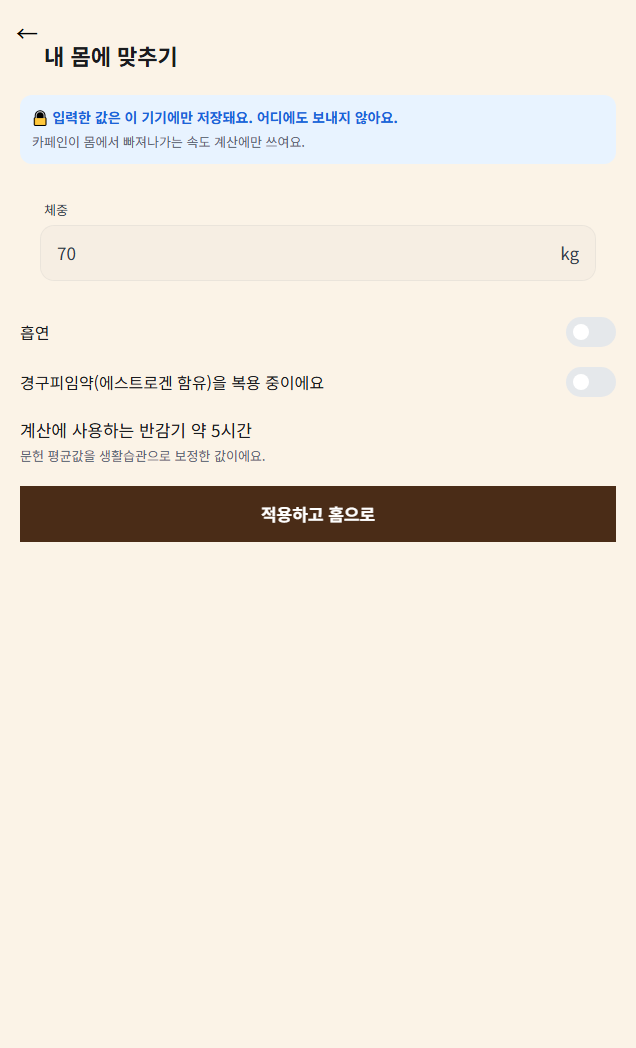
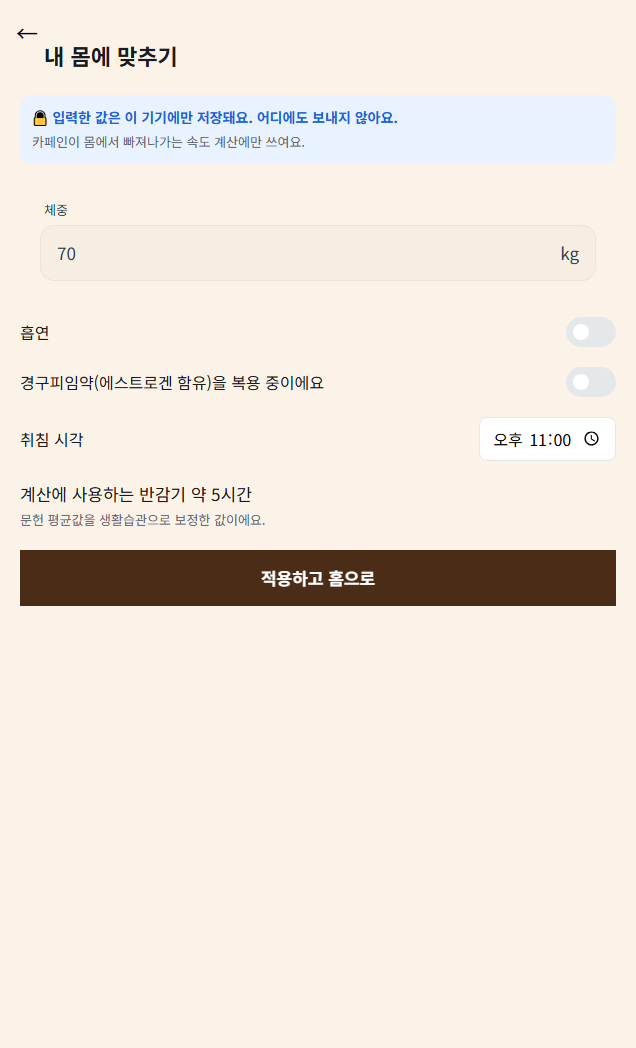
취침 시각 조정 기능 되살림 (11차/12차 개정)
- lib/bedtime.ts: bedtimeMsOf(now, bedtime) 일반화 + normalizeBedtime
  (normalizeWeightKg와 같은 자리 — 함수 진입부에서 정규화)
- storage.ts: cl.v1.bedtime 키(기본 "23:00") 추가
- PersonalizeScreen: 4번째 입력으로 네이티브 <input type="time" min=21:00
  max=02:00 step=1800> 추가(§3 12차 재판정 — TDS에 시간 입력 컴포넌트가
  없어 네이티브로 감, 커스텀 스테퍼 아님). bedtime_adjusted 이벤트 추가
- HomeScreen/CurveChart: "23:00" 리터럴 3곳(취침선 라벨·화살표·취침 예상
  텍스트)을 전부 bedtime prop으로 교체 — 취침을 바꿔도 화면에 옛 값이
  남던 함정 제거
- GuideScreen: M-6 "취침은 23:00 기준" 문구 삭제(더 이상 고정이 아님),
  개인정보 3분류에 "취침 시각" 재등재, "잔 그림"→"링거 그림" 오타 수정
- check-core.ts #13: bedtimeMsOf(now, bedtime) 시그니처로 일반화,
  15:00/01:30→내일 01:30 케이스 추가, 5분 간격 288개 성질 assert 추가
- screenshots.mjs: devtools 배너 목업 박스([data-ait-slot-id])도 숨김
  목록에 추가(광고 ID가 실제 값이 되며 새로 보이기 시작한 디버그 표시)
- docs/privacy.html: 3분류 ①에 "취침 시각" 반영(team-lead 사전 작업 포함)

Changed region(s): [[0.0299, 0.3969, 0.9858, 0.5802], [0.7767, 0.3969, 0.8962, 0.4275], [0.9261, 0.3969, 0.956, 0.4275]]

diff --git a/scripts/check-core.ts b/scripts/check-core.ts
@@ -177,26 +177,39 @@ assert.ok(
   `#12 시뮬레이션 취침값(${simBedtime})은 실제 취침값(${realBedtime}) × 2 초과여야 한다 — 섭취 시각이 달라 정확히 2배는 구조적으로 불가능하다("2배" 지름길이면 여기서 깨진다)`,
 );
 
-/* #13 — §12.8 신설(취침 경과 (b)안). 하루 어긋나면 화면값이 조용히 24배 틀린다. */
+/* #13 — §12.8 일반화(취침 시각 사용자 조정, 11차). 하루 어긋나면 화면값이 조용히 24배 틀린다.
+ * 규칙은 시각과 무관하게 하나다 — UI가 21:00~02:00으로 범위를 좁혀도 이 assert는 늘리지 않는다. */
 assert.equal(
-  bedtimeMsOf(Date.parse("2026-09-01T13:59:00Z")), // 22:59 KST
+  bedtimeMsOf(Date.parse("2026-09-01T13:59:00Z"), "23:00"), // 22:59 KST
   Date.parse("2026-09-01T14:00:00Z"), // 오늘(같은 날) 23:00 KST
-  "#13 22:59 → 오늘 23:00",
+  "#13 22:59/23:00 → 오늘",
 );
 assert.equal(
-  bedtimeMsOf(Date.parse("2026-09-01T14:00:00Z")), // 23:00 KST 정각
+  bedtimeMsOf(Date.parse("2026-09-01T14:00:00Z"), "23:00"), // 23:00 KST 정각
   Date.parse("2026-09-02T14:00:00Z"), // 내일 23:00 KST
-  "#13 23:00 → 내일 23:00",
+  "#13 23:00/23:00 → 내일",
 );
 assert.equal(
-  bedtimeMsOf(Date.parse("2026-09-01T14:20:00Z")), // 23:20 KST
-  Date.parse("2026-09-02T14:00:00Z"), // 내일 23:00 KST
-  "#13 23:20 → 내일 23:00",
-);
-assert.equal(
-  bedtimeMsOf(Date.parse("2026-09-01T15:30:00Z")), // 다음날 00:30 KST(자정 막 넘김)
+  bedtimeMsOf(Date.parse("2026-09-01T15:30:00Z"), "23:00"), // 다음날 00:30 KST(자정 막 넘김)
   Date.parse("2026-09-02T14:00:00Z"), // 그날(같은 KST 날짜) 23:00 — +1일을 또 더하면 안 된다
-  "#13 00:30 → 그날 23:00",
+  "#13 00:30/23:00 → 그날",
 );
+assert.equal(
+  bedtimeMsOf(Date.parse("2026-09-01T06:00:00Z"), "01:30"), // 15:00 KST, 취침 01:30(자정 넘는 값)
+  Date.parse("2026-09-01T16:30:00Z"), // 내일 01:30 KST — 특례 분기 없이 규칙 하나로 나와야 한다
+  "#13 15:00/01:30 → 내일 01:30",
+);
+
+// 성질: bedtime을 5분 간격 288개(00:00~23:55) 전부 넣어도 now < 결과 <= now + 24h 안에 있다.
+const PROPERTY_NOW = Date.parse("2026-09-01T00:00:00Z");
+for (let i = 0; i < 288; i += 1) {
+  const totalMin = i * 5;
+  const bt = `${String(Math.floor(totalMin / 60)).padStart(2, "0")}:${String(totalMin % 60).padStart(2, "0")}`;
+  const result = bedtimeMsOf(PROPERTY_NOW, bt);
+  assert.ok(
+    result > PROPERTY_NOW && result <= PROPERTY_NOW + 24 * HOUR_MS,
+    `#13 성질: bedtime=${bt} → now < 결과 <= now+24h 위반(${result})`,
+  );
+}
 
 console.log("check:core 전부 통과 (assert 1~13)");

diff --git a/src/features/personalize/PersonalizeScreen.tsx b/src/features/personalize/PersonalizeScreen.tsx
@@ -7,19 +7,24 @@ import { EVENT, track } from "../../lib/analytics";
 import { ScreenScroll } from "../../components/ScreenLayout";
 import { palette } from "../../theme";
 
-/** 내 몸에 맞추기(§3) — 체중/흡연/경구피임약 3개. 성별·나이 입력 없음. */
+/** 내 몸에 맞추기(§3) — 체중/흡연/경구피임약/취침 시각 4개. 성별·나이 입력 없음. */
 export function PersonalizeScreen({
   profile,
+  bedtime,
   onApply,
+  onApplyBedtime,
   onBack,
 }: {
   profile: Profile;
+  bedtime: string;
   onApply: (profile: Profile) => void;
+  onApplyBedtime: (bedtime: string) => void;
   onBack: () => void;
 }) {
   const [weightText, setWeightText] = useState(String(profile.weightKg));
   const [smoker, setSmoker] = useState(profile.smoker);
   const [oc, setOc] = useState(profile.oc);
+  const [bedtimeText, setBedtimeText] = useState(bedtime);
 
   const weightNum = Number(weightText);
   const weightValid = Number.isFinite(weightNum) && weightNum >= 30 && weightNum <= 200;
@@ -32,6 +37,10 @@ export function PersonalizeScreen({
     if (oc) fields.push("oc");
     track(EVENT.personalizeSaved, { fields: fields.join(",") });
     onApply({ weightKg: weightValid ? weightNum : profile.weightKg, smoker, oc });
+    if (bedtimeText !== bedtime) {
+      track(EVENT.bedtimeAdjusted, { to: bedtimeText });
+      onApplyBedtime(bedtimeText);
+    }
     onBack();
   };
 
@@ -72,6 +81,21 @@ export function PersonalizeScreen({
         <div style={{ display: "flex", justifyContent: "space-between", alignItems: "center", gap: 12 }}>
           <span style={{ fontSize: 16, color: palette.ink }}>경구피임약(에스트로겐 함유)을 복용 중이에요</span>
           <Switch checked={oc} onChange={(e) => setOc(e.target.checked)} />
+        </div>
+
+        <div style={{ display: "flex", justifyContent: "space-between", alignItems: "center" }}>
+          <span style={{ fontSize: 16, color: palette.ink }}>취침 시각</span>
+          {/* TDS에 시간 입력 컴포넌트가 없어 네이티브로 간다(§3 12차 재판정) — "HH:MM"을 그대로 주고받아
+              입력·저장·표시 어디에도 변환 코드가 없다. min>max는 자정 넘김 순환 범위로 해석된다. */}
+          <input
+            type="time"
+            min="21:00"
+            max="02:00"
+            step={1800}
+            value={bedtimeText}
+            onChange={(e) => setBedtimeText(e.target.value)}
+            style={{ fontSize: 16, padding: "8px 12px", border: `1px solid ${adaptive.grey200}`, borderRadius: 8 }}
+          />
         </div>
 
         <div>

diff --git a/src/App.tsx b/src/App.tsx
@@ -8,7 +8,17 @@ import { GuideScreen } from "./features/guide/GuideScreen";
 import { useNow } from "./hooks/useNow";
 import { EVENT, track, trackScreen } from "./lib/analytics";
 import type { Drink, Profile } from "./lib/caffeine";
-import { addDrink, loadDrinks, loadNotify, loadProfile, removeDrink, saveNotify, saveProfile } from "./lib/storage";
+import {
+  addDrink,
+  loadBedtime,
+  loadDrinks,
+  loadNotify,
+  loadProfile,
+  removeDrink,
+  saveBedtime,
+  saveNotify,
+  saveProfile,
+} from "./lib/storage";
 import type { NotifyState } from "./lib/storage";
 import { isInTossApp } from "./lib/tossEnv";
 
@@ -42,6 +52,7 @@ export default function App() {
   const [drinks, setDrinks] = useState<Drink[]>(() => loadDrinks(Date.now()));
   const [profile, setProfile] = useState<Profile>(() => loadProfile());
   const [notify, setNotify] = useState<NotifyState>(() => loadNotify());
+  const [bedtime, setBedtime] = useState<string>(() => loadBedtime());
   // 첫 렌더 전에 확정해야 HomeScreen의 useState(notificationEntry) 초기값이 이 값을 받는다 —
   // useEffect/useRef로 늦게 채우면 리렌더가 안 일어나 시뮬 토글이 영원히 안 켜진다(R-1).
   const [entry] = useState<string>(detectEntry);
@@ -77,6 +88,7 @@ export default function App() {
           drinks={drinks}
           profile={profile}
           notify={notify}
+          bedtime={bedtime}
           now={now}
           notificationEntry={entry === "notification"}
           onAddDrink={(drink) => setDrinks((prev) => addDrink(prev, drink))}
@@ -94,9 +106,14 @@ export default function App() {
       {current === "personalize" && (
         <PersonalizeScreen
           profile={profile}
+          bedtime={bedtime}
           onApply={(next) => {
             saveProfile(next);
             setProfile(next);
+          }}
+          onApplyBedtime={(next) => {
+            saveBedtime(next);
+            setBedtime(next);
           }}
           onBack={goHome}
         />

diff --git a/src/features/home/HomeScreen.tsx b/src/features/home/HomeScreen.tsx
@@ -41,6 +41,7 @@ export function HomeScreen({
   drinks,
   profile,
   notify,
+  bedtime,
   now,
   notificationEntry,
   onAddDrink,
@@ -51,6 +52,7 @@ export function HomeScreen({
   drinks: Drink[];
   profile: Profile;
   notify: NotifyState;
+  bedtime: string;
   now: number;
   notificationEntry: boolean;
   onAddDrink: (drink: Drink) => void;
@@ -70,7 +72,7 @@ export function HomeScreen({
 
   const currentConc = concentrationMgL(drinks, profile, now);
   const currentRemain = remainingMg(currentConc, profile.weightKg);
-  const bedtimeMs = bedtimeMsOf(now);
+  const bedtimeMs = bedtimeMsOf(now, bedtime);
   const bedtimeIsTomorrow = toKstDateKey(bedtimeMs) !== toKstDateKey(now);
   // curvePoints로 통일(check-core.ts #12가 실제·시뮬 양쪽을 이 경로로 검증한다 — N-8).
   const bedtimeConc = curvePoints(drinks, profile, bedtimeMs, bedtimeMs, 1)[0].mgL;
@@ -171,6 +173,7 @@ export function HomeScreen({
             simPoints={simPoints}
             nowMs={now}
             bedtimeMs={bedtimeMs}
+            bedtime={bedtime}
             drinkAtTimes={drinks.map((d) => d.at)}
             fromMs={from}
             toMs={to}
@@ -221,7 +224,7 @@ export function HomeScreen({
 
         <div style={{ margin: "16px 0" }}>
           <p style={{ margin: 0, fontSize: 15, color: palette.ink }}>
-            🌙 {bedtimeIsTomorrow ? "내일 " : ""}취침(23:00) 예상 {formatMgL(bedtimeConc)} mg/L (약 {Math.round(bedtimeRemain)}mg)
+            🌙 {bedtimeIsTomorrow ? "내일 " : ""}취침({bedtime}) 예상 {formatMgL(bedtimeConc)} mg/L (약 {Math.round(bedtimeRemain)}mg)
           </p>
           {simOn && simBedtimeConc != null && simBedtimeRemain != null && (
             <p style={{ margin: "4px 0 0", fontSize: 15, color: palette.ink }}>

diff --git a/src/lib/bedtime.ts b/src/lib/bedtime.ts
@@ -1,15 +1,24 @@
 const KST_OFFSET_MS = 9 * 60 * 60 * 1000;
 const DAY_MS = 24 * 60 * 60 * 1000;
+const DEFAULT_BEDTIME = "23:00";
+const BEDTIME_RE = /^([01]\d|2[0-3]):([0-5]\d)$/;
+
+/** "HH:MM" 정규화 — 형식이 안 맞으면 기본값. 옛 저장값·손상된 값 경로를 막는다(normalizeWeightKg와 같은 이유). */
+export function normalizeBedtime(input: unknown): string {
+  return typeof input === "string" && BEDTIME_RE.test(input) ? input : DEFAULT_BEDTIME;
+}
 
 /**
- * 다음 취침(23:00 KST) 시각 — 오늘 23:00이 이미 지났으면 내일 23:00(§1 상태표 (b)안, §12.8 #13).
- * 00:30처럼 자정을 막 넘긴 경우도 "오늘"(같은 KST 날짜) 23:00이 아직 안 지났으므로 그대로 맞다.
+ * 다음 취침(설정 시각 KST) — 오늘 그 시각이 이미 지났으면 내일(§1 상태표 (b)안, §12.8 #13).
+ * 규칙은 시각과 무관하게 하나다: "오늘 날짜 + bedtime"을 만들고 now 이하면 하루 더한다.
+ * 자정 넘는 취침(예: 01:30)도 특례 없이 이 규칙만으로 맞다 — 지난 01:30은 자동으로 내일 01:30이 된다.
  */
-export function bedtimeMsOf(nowMs: number): number {
+export function bedtimeMsOf(nowMs: number, bedtime: string = DEFAULT_BEDTIME): number {
+  const [h, m] = normalizeBedtime(bedtime).split(":").map(Number);
   const kst = new Date(nowMs + KST_OFFSET_MS);
   const y = kst.getUTCFullYear();
-  const m = kst.getUTCMonth();
+  const mo = kst.getUTCMonth();
   const d = kst.getUTCDate();
-  const bedtime = Date.UTC(y, m, d, 23, 0, 0) - KST_OFFSET_MS;
-  return bedtime <= nowMs ? bedtime + DAY_MS : bedtime;
+  const target = Date.UTC(y, mo, d, h, m, 0) - KST_OFFSET_MS;
+  return target <= nowMs ? target + DAY_MS : target;
 }

diff --git a/src/features/guide/GuideScreen.tsx b/src/features/guide/GuideScreen.tsx
@@ -22,9 +22,7 @@ export function GuideScreen({ onBack }: { onBack: () => void }) {
         마신 카페인이 몸에 흡수되는 과정과 사라지는 속도를 문헌 평균값으로 추정해요. 평균값을 이용한
         추정이에요.
         <br />
-        잔 그림은 지금 몸에 남은 카페인 양이에요. 식약처 성인 하루 권고량(400mg)만큼 남았을 때 가득 차요.
-        <br />
-        취침은 23:00 기준으로 계산해요.
+        링거 그림은 지금 몸에 남은 카페인 양이에요. 식약처 성인 하루 권고량(400mg)만큼 남았을 때 가득 차요.
       </Post.Paragraph>
 
       <Post.H3>꼭 읽어주세요</Post.H3>
@@ -49,8 +47,8 @@ export function GuideScreen({ onBack }: { onBack: () => void }) {
       <Post.H3>개인정보</Post.H3>
       <Post.Ul>
         <Post.Li>
-          기기 내 저장(서버 전송 0건): 체중·흡연 여부·경구피임약 복용 여부·섭취 기록. 30일 롤링 보관,
-          앱 삭제 시 즉시 소멸
+          기기 내 저장(서버 전송 0건): 체중·흡연 여부·경구피임약 복용 여부·취침 시각·섭취 기록. 30일
+          롤링 보관, 앱 삭제 시 즉시 소멸
         </Post.Li>
         <Post.Li>서비스 이용 기록(비식별): 화면 조회·기능 사용 이벤트. 위 건강 항목의 값은 포함하지 않음</Post.Li>
         <Post.Li>광고: 인앱 광고 노출을 위해 광고 SDK가 광고 식별자를 처리함</Post.Li>

diff --git a/docs/privacy.html b/docs/privacy.html
@@ -52,7 +52,7 @@
   <tbody>
     <tr>
       <td><strong>① 단말 내 저장<br>(전송 없음)</strong></td>
-      <td>체중, 흡연 여부, 경구피임약 복용 여부, 카페인 섭취 기록(음료 종류·용량·시각)</td>
+      <td>체중, 흡연 여부, 경구피임약 복용 여부, 취침 시각, 카페인 섭취 기록(음료 종류·용량·시각)</td>
       <td>이용자 기기의 저장소에만 저장됩니다. <strong>회사 서버를 포함한 외부로 전송되지 않으며, 회사는 이 값을 열람할 수 없습니다.</strong></td>
     </tr>
     <tr>
@@ -68,7 +68,7 @@
   </tbody>
 </table>
 
-<p>①항의 체중·흡연 여부·경구피임약 복용 여부는 <strong>이용자가 원할 때만 선택적으로 입력하는 항목</strong>이며, 입력하지 않아도 서비스의 모든 기능을 이용할 수 있습니다. 이 값은 <strong>카페인이 몸에서 빠져나가는 속도를 계산하는 용도로만</strong> 사용됩니다.</p>
+<p>①항의 체중·흡연 여부·경구피임약 복용 여부·취침 시각은 <strong>이용자가 원할 때만 선택적으로 입력하는 항목</strong>이며, 입력하지 않아도 서비스의 모든 기능을 이용할 수 있습니다. 이 값은 <strong>카페인이 몸에서 빠져나가는 속도와 취침 시점의 잔여량을 계산하는 용도로만</strong> 사용됩니다.</p>
 
 <h2>제2조 (처리 목적)</h2>
 <ol>

diff --git a/src/components/CurveChart.tsx b/src/components/CurveChart.tsx
@@ -18,6 +18,8 @@ export interface CurveChartProps {
   simPoints?: CurvePoint[] | null;
   nowMs: number;
   bedtimeMs: number;
+  /** "HH:MM" — 사용자가 설정한 취침 시각(기본 "23:00"). 라벨 리터럴에 절대 하드코딩하지 않는다. */
+  bedtime: string;
   /** 봉우리 강조 점(§6) — 마신 시각들 */
   drinkAtTimes: number[];
   fromMs: number;
@@ -37,6 +39,7 @@ export function CurveChart({
   simPoints,
   nowMs,
   bedtimeMs,
+  bedtime,
   drinkAtTimes,
   fromMs,
   toMs,
@@ -159,12 +162,12 @@ export function CurveChart({
               fontSize={11}
               fill="#8B8478"
             >
-              🌙 {bedtimeWord} 23:00
+              🌙 {bedtimeWord} {bedtime}
             </text>
           </>
         ) : (
           <text x={RIGHT} y={TOP - 6} textAnchor="end" fontSize={11} fill="#8B8478">
-            {bedtimeWord} 23:00 →
+            {bedtimeWord} {bedtime} →
           </text>
         )}
       </svg>

diff --git a/src/lib/storage.ts b/src/lib/storage.ts
@@ -6,6 +6,7 @@ import type { Drink, Profile } from "./caffeine";
 const DRINKS_KEY = "cl.v1.drinks";
 const PROFILE_KEY = "cl.v1.profile";
 const NOTIFY_KEY = "cl.v1.notify";
+const BEDTIME_KEY = "cl.v1.bedtime";
 
 export interface NotifyState {
   agreed: string[];
@@ -68,4 +69,13 @@ export function loadNotify(): NotifyState {
 
 export function saveNotify(state: NotifyState): void {
   save(NOTIFY_KEY, state);
+}
+
+/** "HH:MM", 기본 "23:00"(§12.3). 정규화는 저장이 아니라 bedtimeMsOf() 진입부에서 한다. */
+export function loadBedtime(): string {
+  return load(BEDTIME_KEY, "23:00");
+}
+
+export function saveBedtime(bedtime: string): void {
+  save(BEDTIME_KEY, bedtime);
 }

diff --git a/src/lib/analytics.ts b/src/lib/analytics.ts
@@ -37,6 +37,7 @@ export const EVENT = {
   notifyConsentAgreed: "notify_consent_agreed", // { slot }
   personalizeOpened: "personalize_opened",
   personalizeSaved: "personalize_saved", // { fields }
+  bedtimeAdjusted: "bedtime_adjusted", // { to }
   simOpened: "sim_opened", // { entry: toggle | notification }
   simPreviewed: "sim_previewed", // { preset }
   simToLog: "sim_to_log", // { preset }
